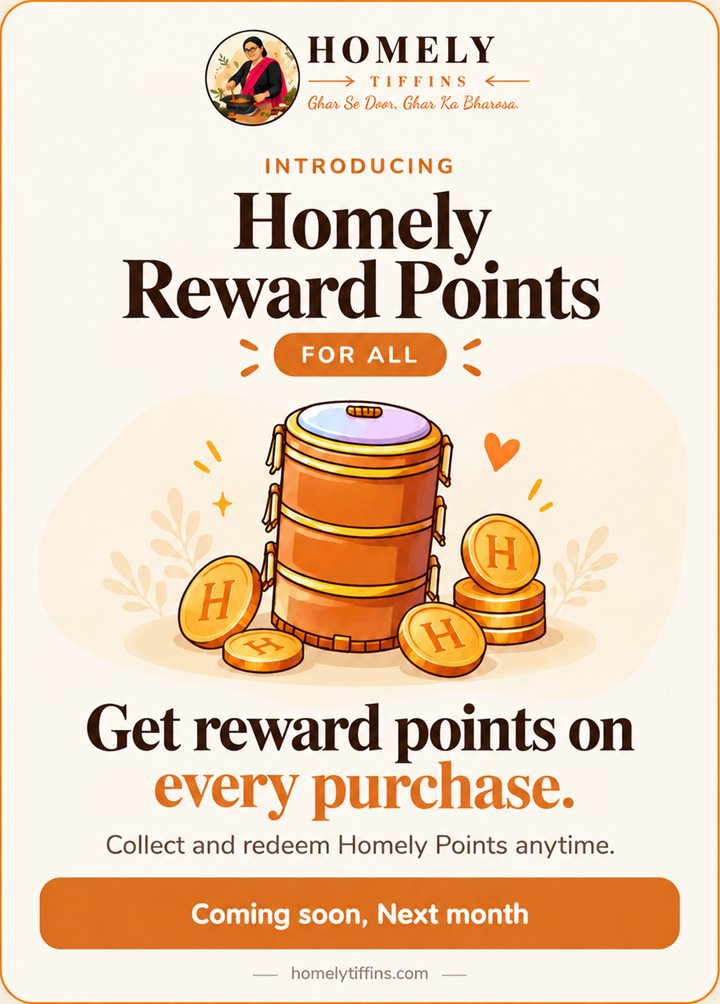
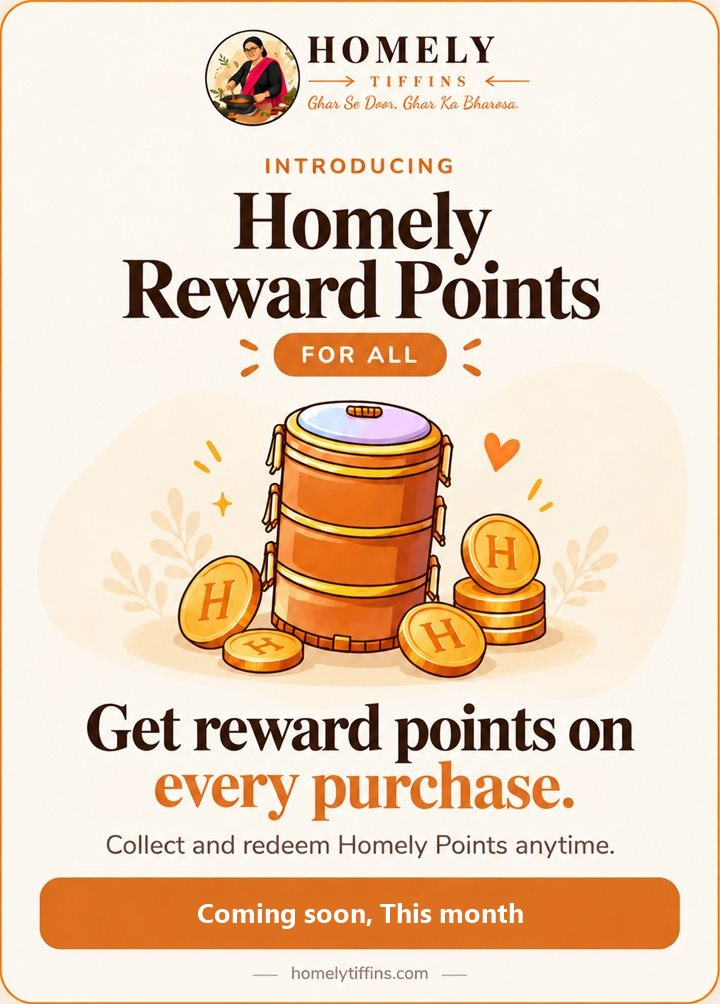
Rewards teaser: Coming soon, This month (was Next month)

Changed region(s): [[0.2444, 0.8954, 0.7333, 0.9263]]

diff --git a/components/App.jsx b/components/App.jsx
@@ -2653,7 +2653,7 @@ const HomeStyle = () => (
 // the image, so transparent buttons sit over them. public/rewards-banner.jpg
 // is the same art without the ✕, placed on the home page above Homely Gold.
 // ─────────────────────────────────────────────
-const REWARDS_ALT = "Introducing Homely Reward Points for all. Get reward points on every purchase. Coming soon, next month.";
+const REWARDS_ALT = "Introducing Homely Reward Points for all. Get reward points on every purchase. Coming soon, this month.";
 const REWARDS_RATIO = 720 / 1004;
 
 function RewardsPopup({ onClose }) {
